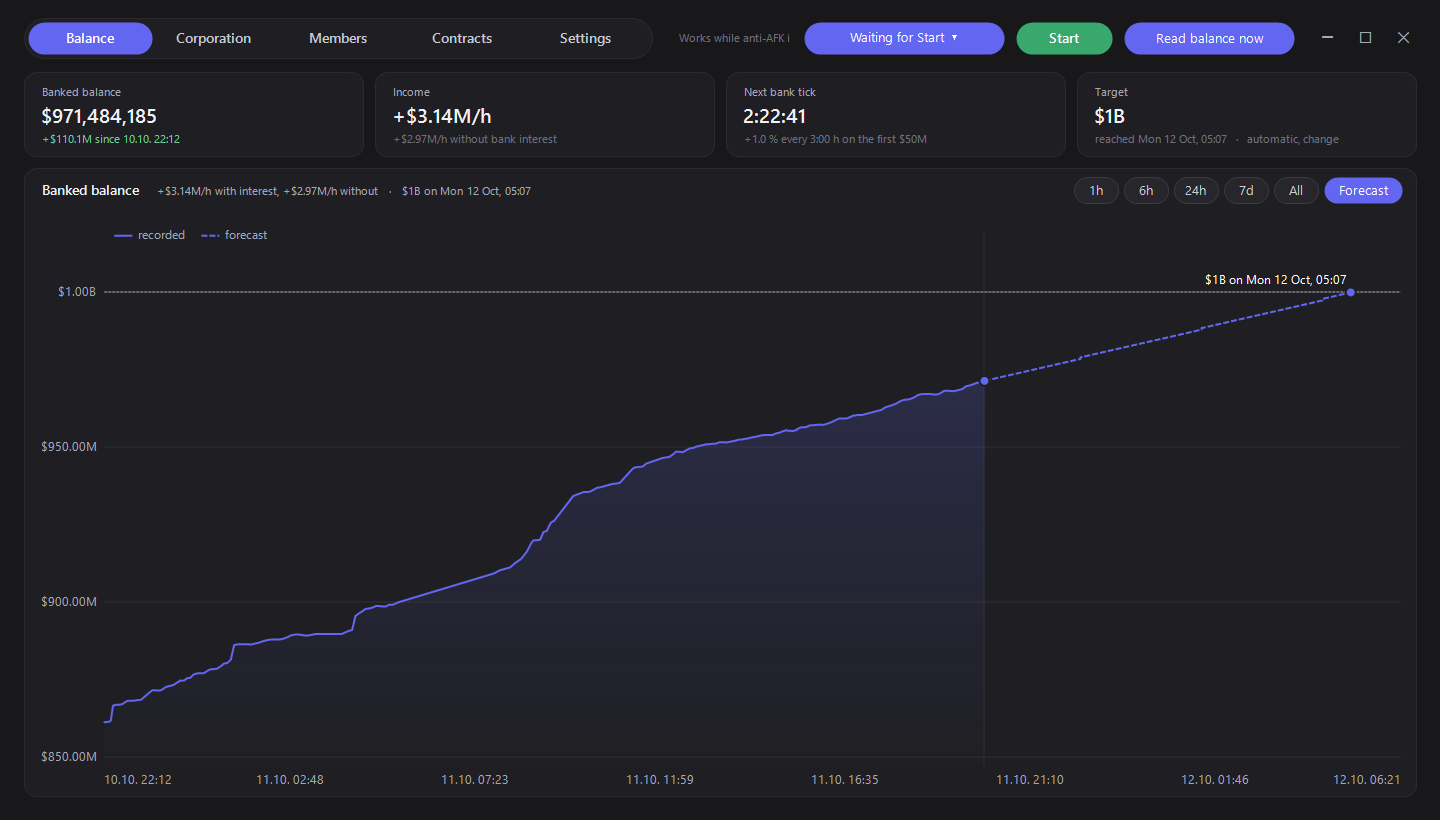
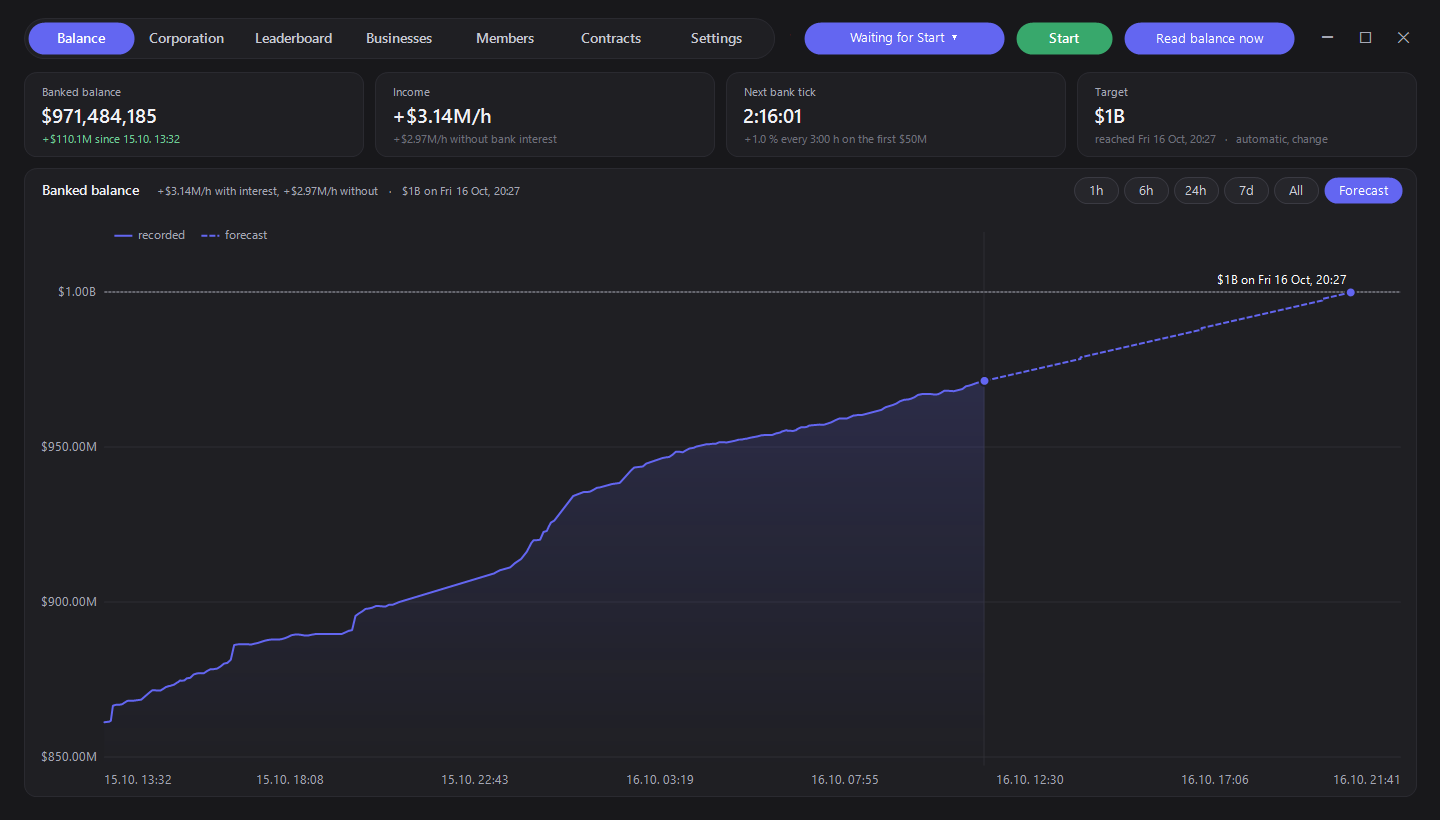
v1.4.8: README with the leaderboard, businesses and new hauling views; new screenshots (example data)

diff --git a/CHANGELOG.md b/CHANGELOG.md
@@ -1,5 +1,54 @@
 # Changelog
 
+## v1.4.8
+
+- Corporation leaderboard: the three lists of Corporation > Leaderboard (experience, reputation, value) are
+  read on a timer of their own (Settings, "Read the leaderboard every") and kept as a history
+- A Discord post with a picture for each list, in the look of the members picture: our place and how it
+  moved in about a day, our figure and how much it grew, how far we are behind the place above and ahead
+  of the place below; then the first fifteen with level, figure, change in a day and distance to us (our
+  own row in gold, below them when it is further down). Its own webhook and its own choice of one post kept
+  up to date or a new post each time (Settings, Discord, "Leaderboard")
+- The settings page of the dashboard scrolls when the window is too low for all of it
+- A Leaderboard tab in the dashboard, next to Corporation: our place by reputation, value and experience
+  and how it moved in a day; for reputation and value a chart of our figure against the corporations just
+  above and below, with each line carried on along its trend, the point where we pass the one above or
+  the one below passes us, and our place in seven days at the present trends; the whole list with each
+  corporation's growth per day and its distance to us. "Read leaderboard now" reads it at once
+- The dashboard is much quicker: what it works out from the recorded data (pace, earnings, companies,
+  members, leaderboard) is kept until new data comes in instead of being worked out again for every
+  redraw, the trucks list is only read again when it changes, and the picture goes to the screen the fast
+  way. Scrolling and pointing at things redraw in a fraction of the time they took
+- Our own businesses: Corporation > Businesses is read on a timer of its own (Settings, "Read the
+  businesses every"): for each business the stock against the warehouse space, production per game month
+  (an hour of real time), efficiency, value, upkeep and when it is due, and when it is put up for sale if
+  not used; with the totals of the page. Kept as a history (businesses.csv)
+- A Businesses tab in the dashboard: total value and how it changed, production per hour, the warehouse,
+  the next upkeep; a card per business with its stock as a bar, how the stock changes per hour (production
+  less what is hauled away), when it will be full, and FULL / ALMOST FULL badges; a chart of how full each
+  one was and where it is headed. "Read businesses now" reads it at once
+- A Discord post for the businesses: one picture with the totals and a card per business, in a frame that
+  turns orange when one is nearly full or about to be put up for sale and red when one is full, with a line
+  for each of those. Its own webhook and its own choice of one post kept up to date or a new post each
+  time (Settings, Discord, "Businesses")
+- The leaderboard and the businesses can be read as often as once a minute (also every 2, 5 and 10 minutes)
+- The "Corporation and contracts" block of the settings is tall enough again for all its rows
+- Contracts, "We haul": the contracts being hauled are cards now, each with its type, cargo, company and
+  route, a progress bar, what is left, the pace, the time left and when it will be done, marked IN TIME or
+  TOO LATE AT THIS PACE (the ones applied for show as waiting); the ones before are a table that sorts by
+  any column (click a heading: up, down, back to newest first) with whether each one finished in time
+- Contracts, "Our posts": the same, the running ones as cards (who hauls it, or NOT PICKED UP) and the
+  earlier ones as a sortable table. Both views filter by contract type; a click on a card or row opens the
+  company's page
+- Readings are more accurate: leaderboard values are read once more without the "$" (which runs into the
+  first digit) and cut to the print (a short "$9.6B" alone in a wide cell was often missed), a lost decimal
+  point is put back where the order of the list calls for it, and a figure that still cannot be read is taken
+  from the reading before when it fits between its neighbours. The businesses reader reads the minutes of
+  the upkeep on their own when they go missing, checks the values against the total and the reading before,
+  and takes one more capture past the marketplace so that no card is cut off
+- members.csv no longer grows without end: readings older than two days are thinned to one per member every
+  quarter of an hour when the app starts (the file before is kept as members.csv.bak); loading is quicker
+
 ## v1.4.7
 
 - The contract types have their colours: Box / Van green, Flatbed orange, Tanker blue. As a tag on the open

diff --git a/README.md b/README.md
@@ -27,23 +27,61 @@ release lists the SHA-256 of the exe so you can check a copy before running it.
 - **Automation**: auto-start when Roblox opens, auto-reconnect, macros, global hotkey
 - **Status overlay** and **Discord webhook** notifications
 - **Interface options**: solid or blurred background with adjustable transparency, animations, always on top
-- **Fleet Empire tracker**: reads your banked balance and your corporation's figures and members from the
-  game window, keeps a history, shows graphs with forecasts in a dashboard, and can post the balance graph
-  to Discord
+- **Fleet Empire tracker**: reads your banked balance, your corporation, its members, contracts, the
+  corporation leaderboards and your own businesses from the game window, keeps a history, and shows it all in
+  a dashboard with forecasts. Each part can post to Discord on its own webhook and timer
 
-### Fleet Empire dashboard
+### Fleet Empire tracker
+
+RoNudge only looks at the game: it focuses the window, clicks through the pages, takes screenshots and reads
+them with the Windows text recognition. Nothing is injected into Roblox. Every reading runs on a timer you
+choose (down to once a minute), and Esc gives a reading up at any time.
+
+- **Balance**: the banked balance over time, income per hour and a forecast to your target
+- **Corporation and members**: reputation, bank, seats, and each member's deliveries, contributions and
+  last time online
+- **Contracts**: the open board with pay per unit, per mile and per trip for your trucks, filters by type and
+  cargo; auto-apply with rules per contract type; what the corporation hauls as cards with progress, pace and
+  whether it finishes in time, and a sortable history; the contracts you posted and who hauls them
+- **Leaderboard**: your place by reputation, value and experience, against the corporations around you, with
+  the trend carried forward to when you pass them
+- **Businesses**: stock, production per hour, value, upkeep and when each business is full
+- **Discord**: pictures and embeds for the balance, corporation, contracts, leaderboard and businesses, news
+  as they happen and a daily summary, each on its own webhook
 
 <p align="center">
   <img src="assets/dashboard-balance.png" width="900" alt="Fleet Empire dashboard: banked balance with forecast">
 </p>
 
 <p align="center">
-  <img src="assets/dashboard-contracts.png" width="900" alt="Fleet Empire dashboard: contracts the corporation hauls">
+  <img src="assets/dashboard-corporation.png" width="900" alt="Fleet Empire dashboard: corporation reputation and bank">
+</p>
+
+<p align="center">
+  <img src="assets/dashboard-hauling.png" width="900" alt="Fleet Empire dashboard: contracts the corporation hauls, as cards, and their history">
+</p>
+
+<p align="center">
+  <img src="assets/dashboard-contracts.png" width="900" alt="Fleet Empire dashboard: the open contract board">
+</p>
+
+<p align="center">
+  <img src="assets/dashboard-leaderboard.png" width="900" alt="Fleet Empire dashboard: corporation leaderboard with forecast">
+</p>
+
+<p align="center">
+  <img src="assets/dashboard-businesses.png" width="900" alt="Fleet Empire dashboard: the corporation's own businesses">
+</p>
+
+<p align="center">
+  <img src="assets/discord-businesses.png" width="700" alt="Discord post of the businesses">
 </p>
 
 <p align="center">
   <img src="assets/fleet-empire.png" width="636" alt="Fleet Empire page of the main window">
 </p>
+
+All screenshots show made-up example data.
 
 ## Using it
 
